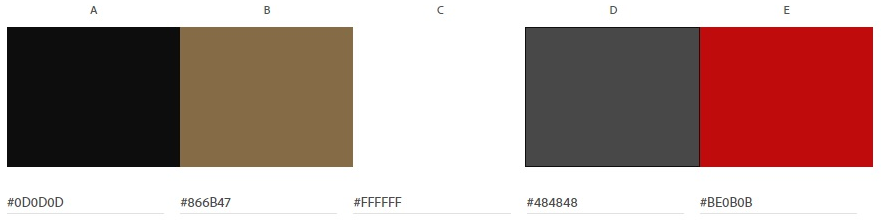
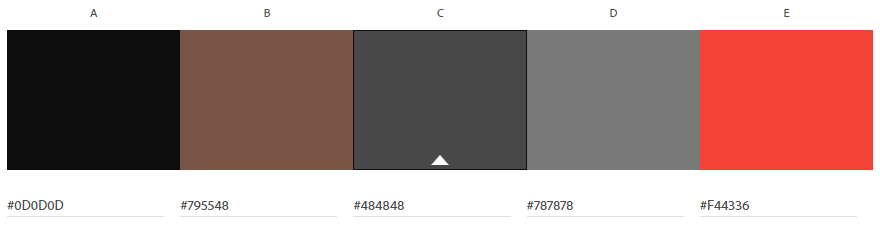
FIX handler no existente. Refactor caracteristicas del README.md. Agrego cambiarHash() en Navegador

diff --git a/app/js/modules/funciones/handlers.js b/app/js/modules/funciones/handlers.js
@@ -199,7 +199,7 @@ export function formAgregarItem(e) {
 
             // ASOCIANDO EVENTOS -> Al nuevo item
             ManejadorEventos.asociarAlUltimo('.btn-edit', 'click', ManejadorEventos.getHandler("autocompletarFormEditarItem"));
-            ManejadorEventos.asociarAlUltimo('.btn-delete', 'click', ManejadorEventos.getHandler("autocompletarFormEliminarItem"));
+            ManejadorEventos.asociarAlUltimo('.btn-delete', 'click', ManejadorEventos.getHandler("autocompletarModalEliminarItem"));
 
             finishHandler_item(pizarra, 4000);
         }
@@ -269,7 +269,7 @@ export function formEditarItem(e) {
             ManejadorDOM.reemplazarFila($fila, registroItemModificado);
 
             ManejadorEventos.asociarAlSubElemento(registroItemModificado, '.btn-edit', 'click', ManejadorEventos.getHandler("autocompletarFormEditarItem"));
-            ManejadorEventos.asociarAlSubElemento(registroItemModificado, '.btn-delete', 'click', ManejadorEventos.getHandler("autocompletarFormEliminarItem"));
+            ManejadorEventos.asociarAlSubElemento(registroItemModificado, '.btn-delete', 'click', ManejadorEventos.getHandler("autocompletarModalEliminarItem"));
 
             finishHandler_item(pizarra, 4000);
         }

diff --git a/app/js/modules/clases/Usuario.js b/app/js/modules/clases/Usuario.js
@@ -4,12 +4,11 @@ import { JSON_usuarios } from '../json.js';
 import { DatosSesionDeUsuario } from '../clases.js';
 
 class Usuario {
-    constructor(nombre = null, contrasena = null, tipo = "invitado", anioDeRegistro = null, fechaSeleccionada = null) {
+    constructor(nombre = null, contrasena = null, tipo = "invitado", anioDeRegistro = null) {
         this.nombre = nombre;
         this.contrasena = contrasena;
         this.tipo = tipo;
         this.anioDeRegistro = anioDeRegistro;
-        this.fechaSeleccionada = fechaSeleccionada;
     }
 
     static get() {

diff --git a/app/js/modules/igzframework/Navegador.js b/app/js/modules/igzframework/Navegador.js
@@ -13,6 +13,10 @@ class Navegador {
         Navegador.eliminarDeSesion("usuario_logeado");
         Navegador.guardarEnSesion("usuario_logeado", datosDeSesion);
     }
+
+    static cambiarHash(hash) {
+        window.location.hash  = `#${hash}`;
+    }
     
     static cerrarSesion() {
         Navegador.eliminarDeSesion("usuario_logeado");

diff --git a/scss/base/_colores.scss b/scss/base/_colores.scss
@@ -1,4 +1,4 @@
-/* Colores del proyecto */
+// -------- Colores del proyecto --------
 $color-blanco: #FFFFFF !default;
 $color-detalles: #787878 !default;
 $color-marron: #795548 !default;

diff --git a/scss/base/_mixins.scss b/scss/base/_mixins.scss
@@ -1,3 +1,4 @@
+// -------- Mixins del proyecto --------
 @mixin barra-de-color($height: 2.5rem, $margen: 5px, $width: 0.3rem) {
     display: inline-block;
     height: $height;

diff --git a/scss/base/_gradientes.scss b/scss/base/_gradientes.scss
@@ -1,3 +1,4 @@
+// -------- Gradientes del proyecto --------
 $gradientes: (
     UIg-Clouds: linear-gradient(to left, #ece9e6, #ffffff) //UIg_clouds
 ) !default;

diff --git a/css/style.css b/css/style.css
@@ -1,5 +1,4 @@
 @charset "UTF-8";
-/* Colores del proyecto */
 /* -------- CSS Custom properties -------- */
 :root {
   font-size: 21px;

diff --git a/README.md b/README.md
@@ -17,6 +17,7 @@
 
 - Se implementan los patrones de arquitectura web: MPA y SPA.
 - Se implementa el patrón de arquitectura de software: MVC.
+- Se implementa el patrón de diseño de software: Singleton.
 - Lógica de controlador frontal y de ruteador.
 - Módulos ES6. Importaciones estáticas y dinámicas.
 - Se incluyen las siguientes librerías de terceros: materialize, jquery y chart.js. También incluye mi librería personal de javascript.
